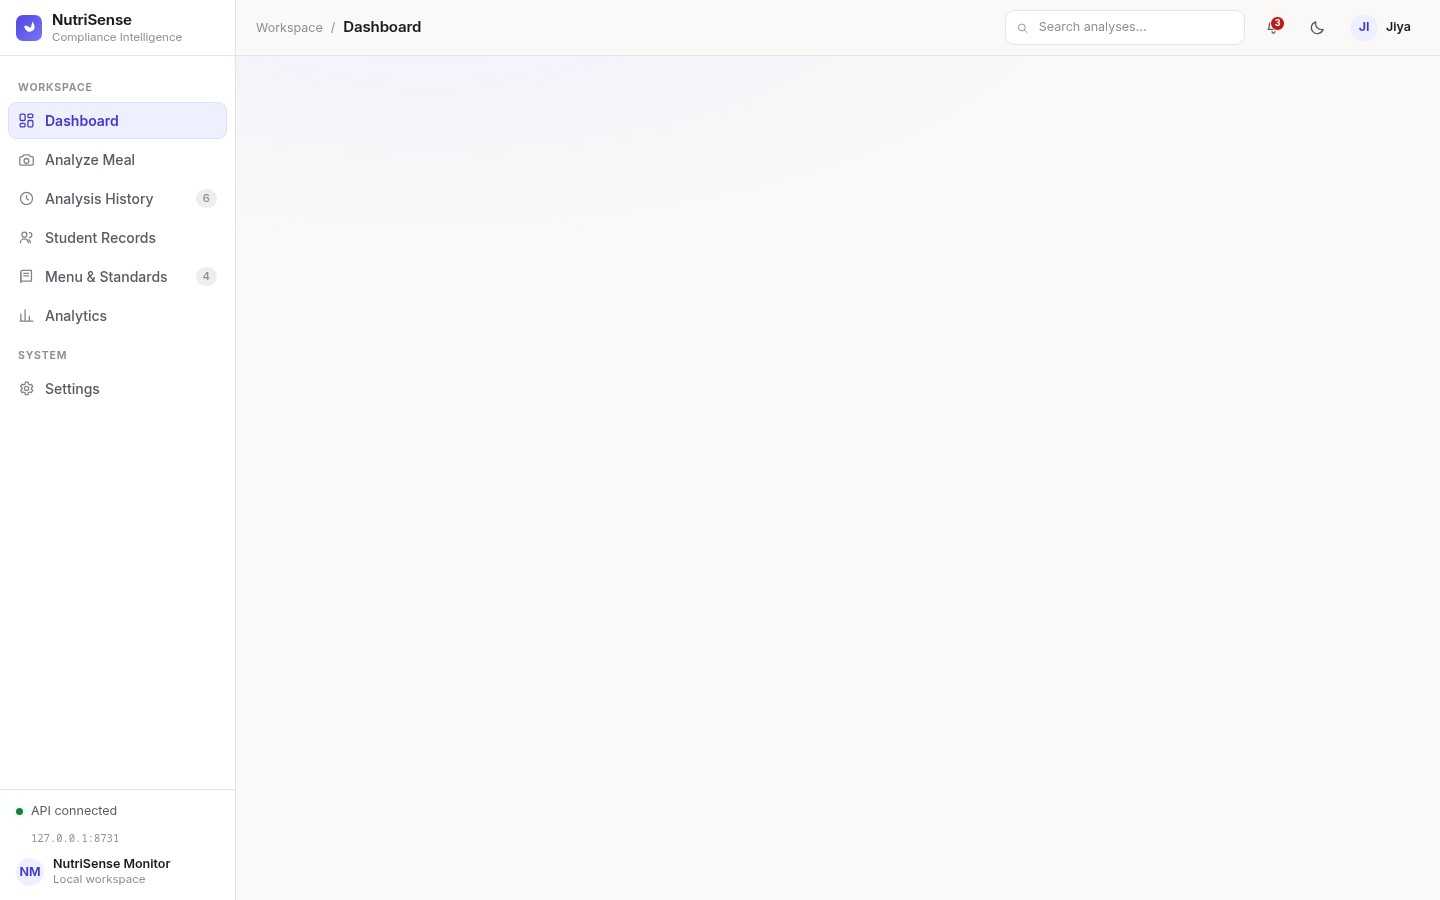
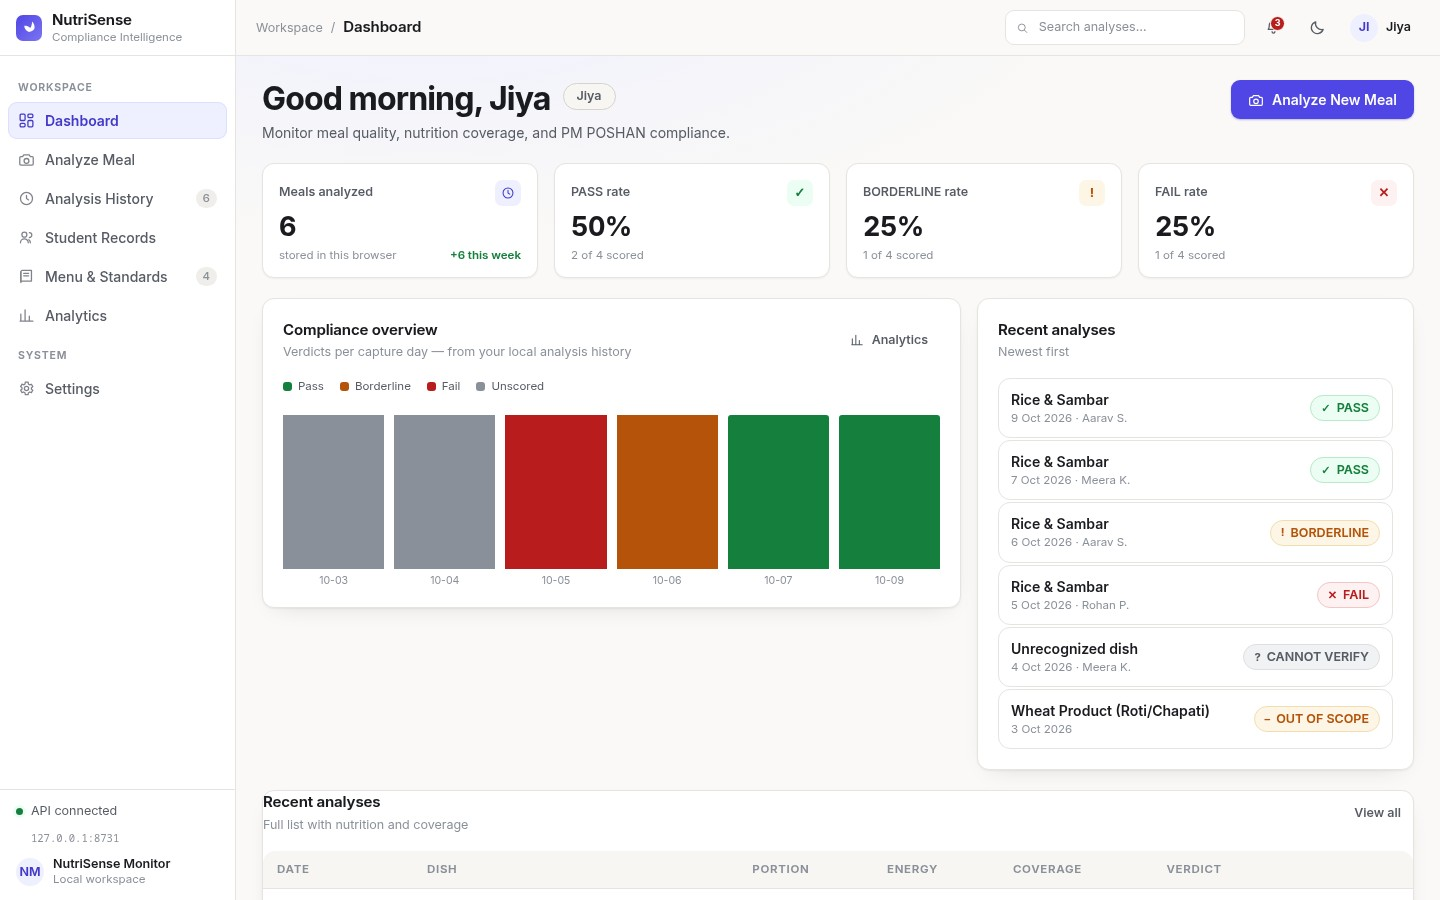
docs: use OLED dashboard as README hero, re-shoot empty light shot

diff --git a/README.md b/README.md
@@ -25,7 +25,7 @@ Everything the pipeline decides is traceable: which scale anchor was used, how l
 
 A React web UI wraps the pipeline: dashboard, photo analysis with honest staged progress, result detail (verdict reasons, coverage, 90% intervals), history + search, student records, menu browser, analytics, and settings.
 
-![NutriSense dashboard](docs/screenshots/dashboard-light.jpg)
+![NutriSense dashboard — OLED theme](docs/screenshots/dashboard-oled-teal.jpg)
 
 ---
 
